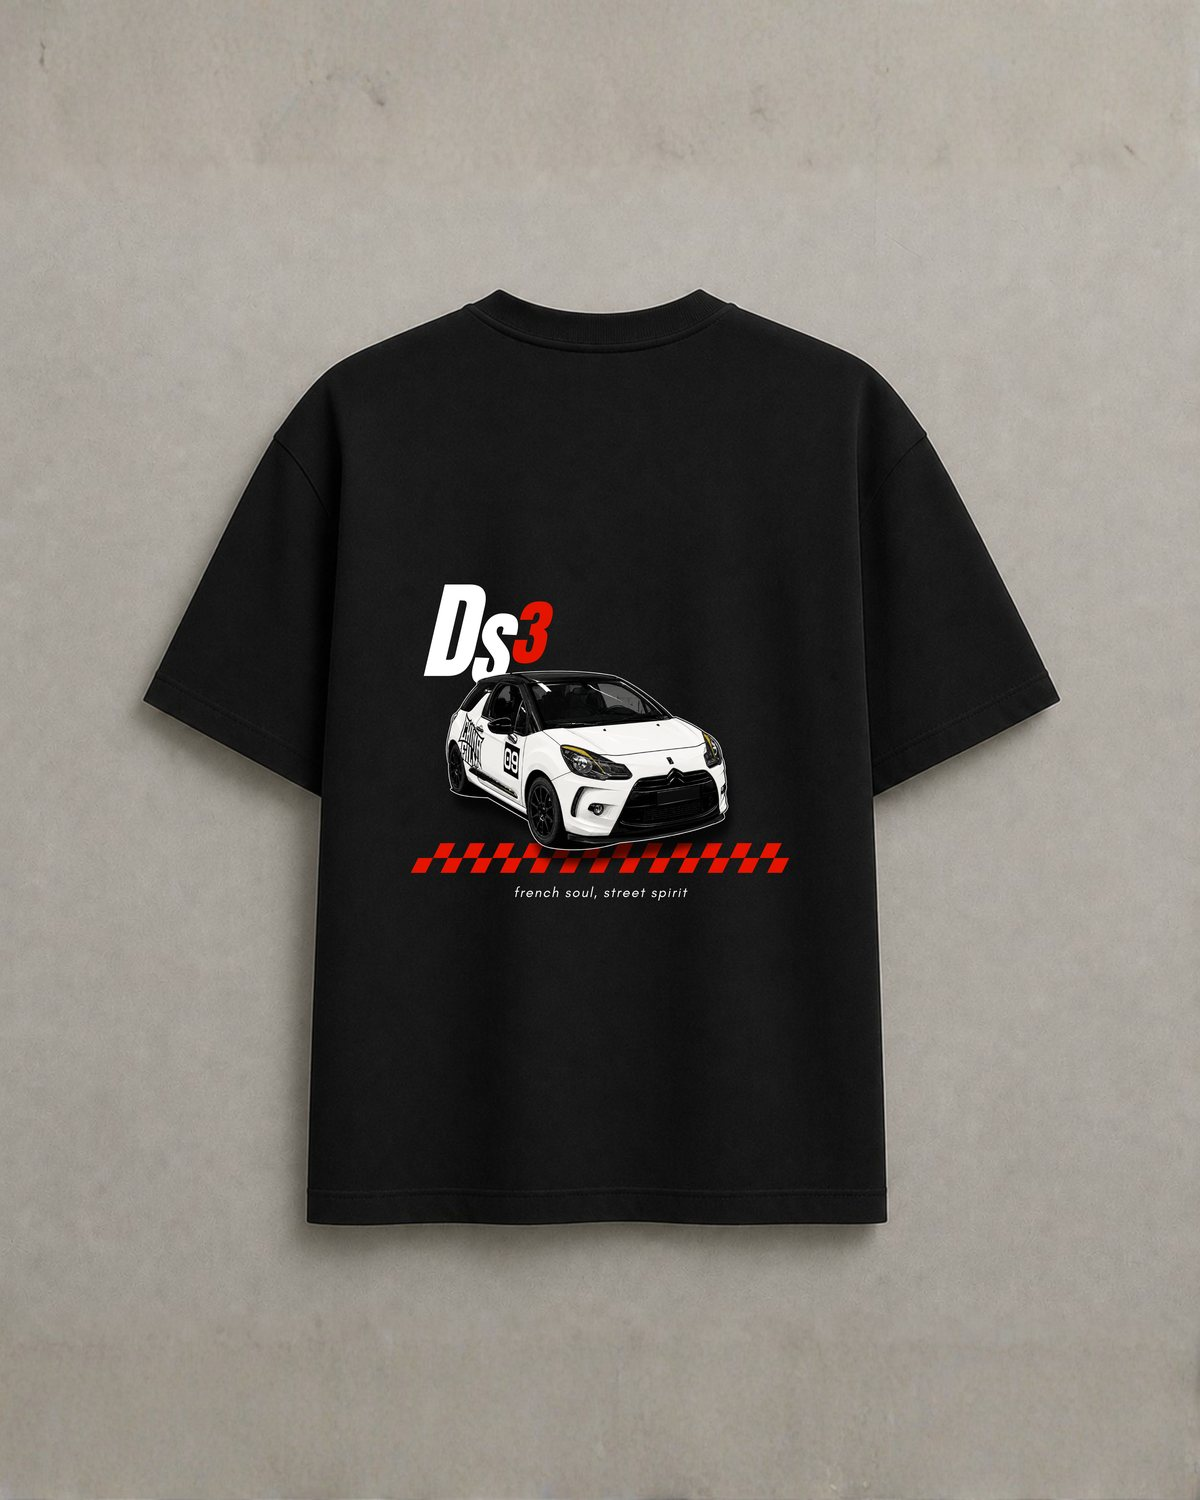
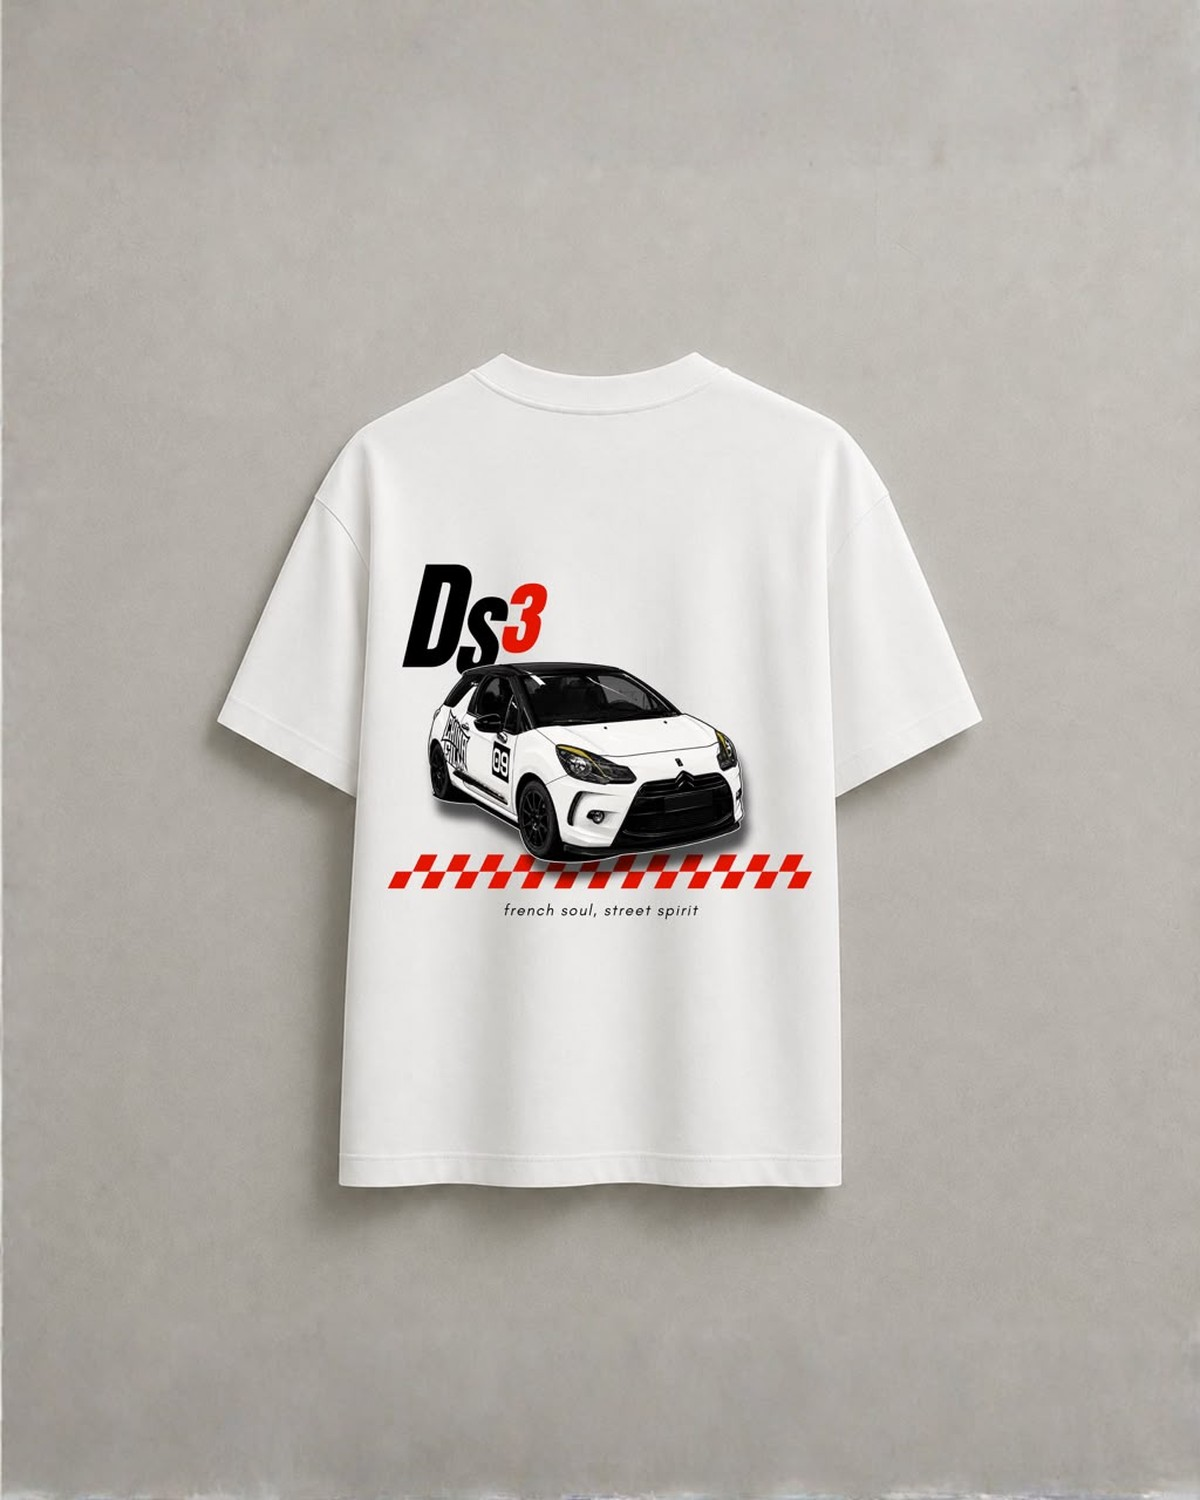
troca fotos de produto para versao branca

diff --git a/public/assets/js/products.js b/public/assets/js/products.js
@@ -63,7 +63,7 @@
       price: PRECOS.camiseta,
       images: ["assets/img/tee-back.jpg", "assets/img/tee-front.jpg"],
       sizes: true,
-      desc: "A sua arte nas costas. Assinatura UNIKAR no peito. Preta, como tem que ser.",
+      desc: "A sua arte nas costas. Assinatura UNIKAR no peito. Branca, como tem que ser.",
       shopee: ""
     },
 
